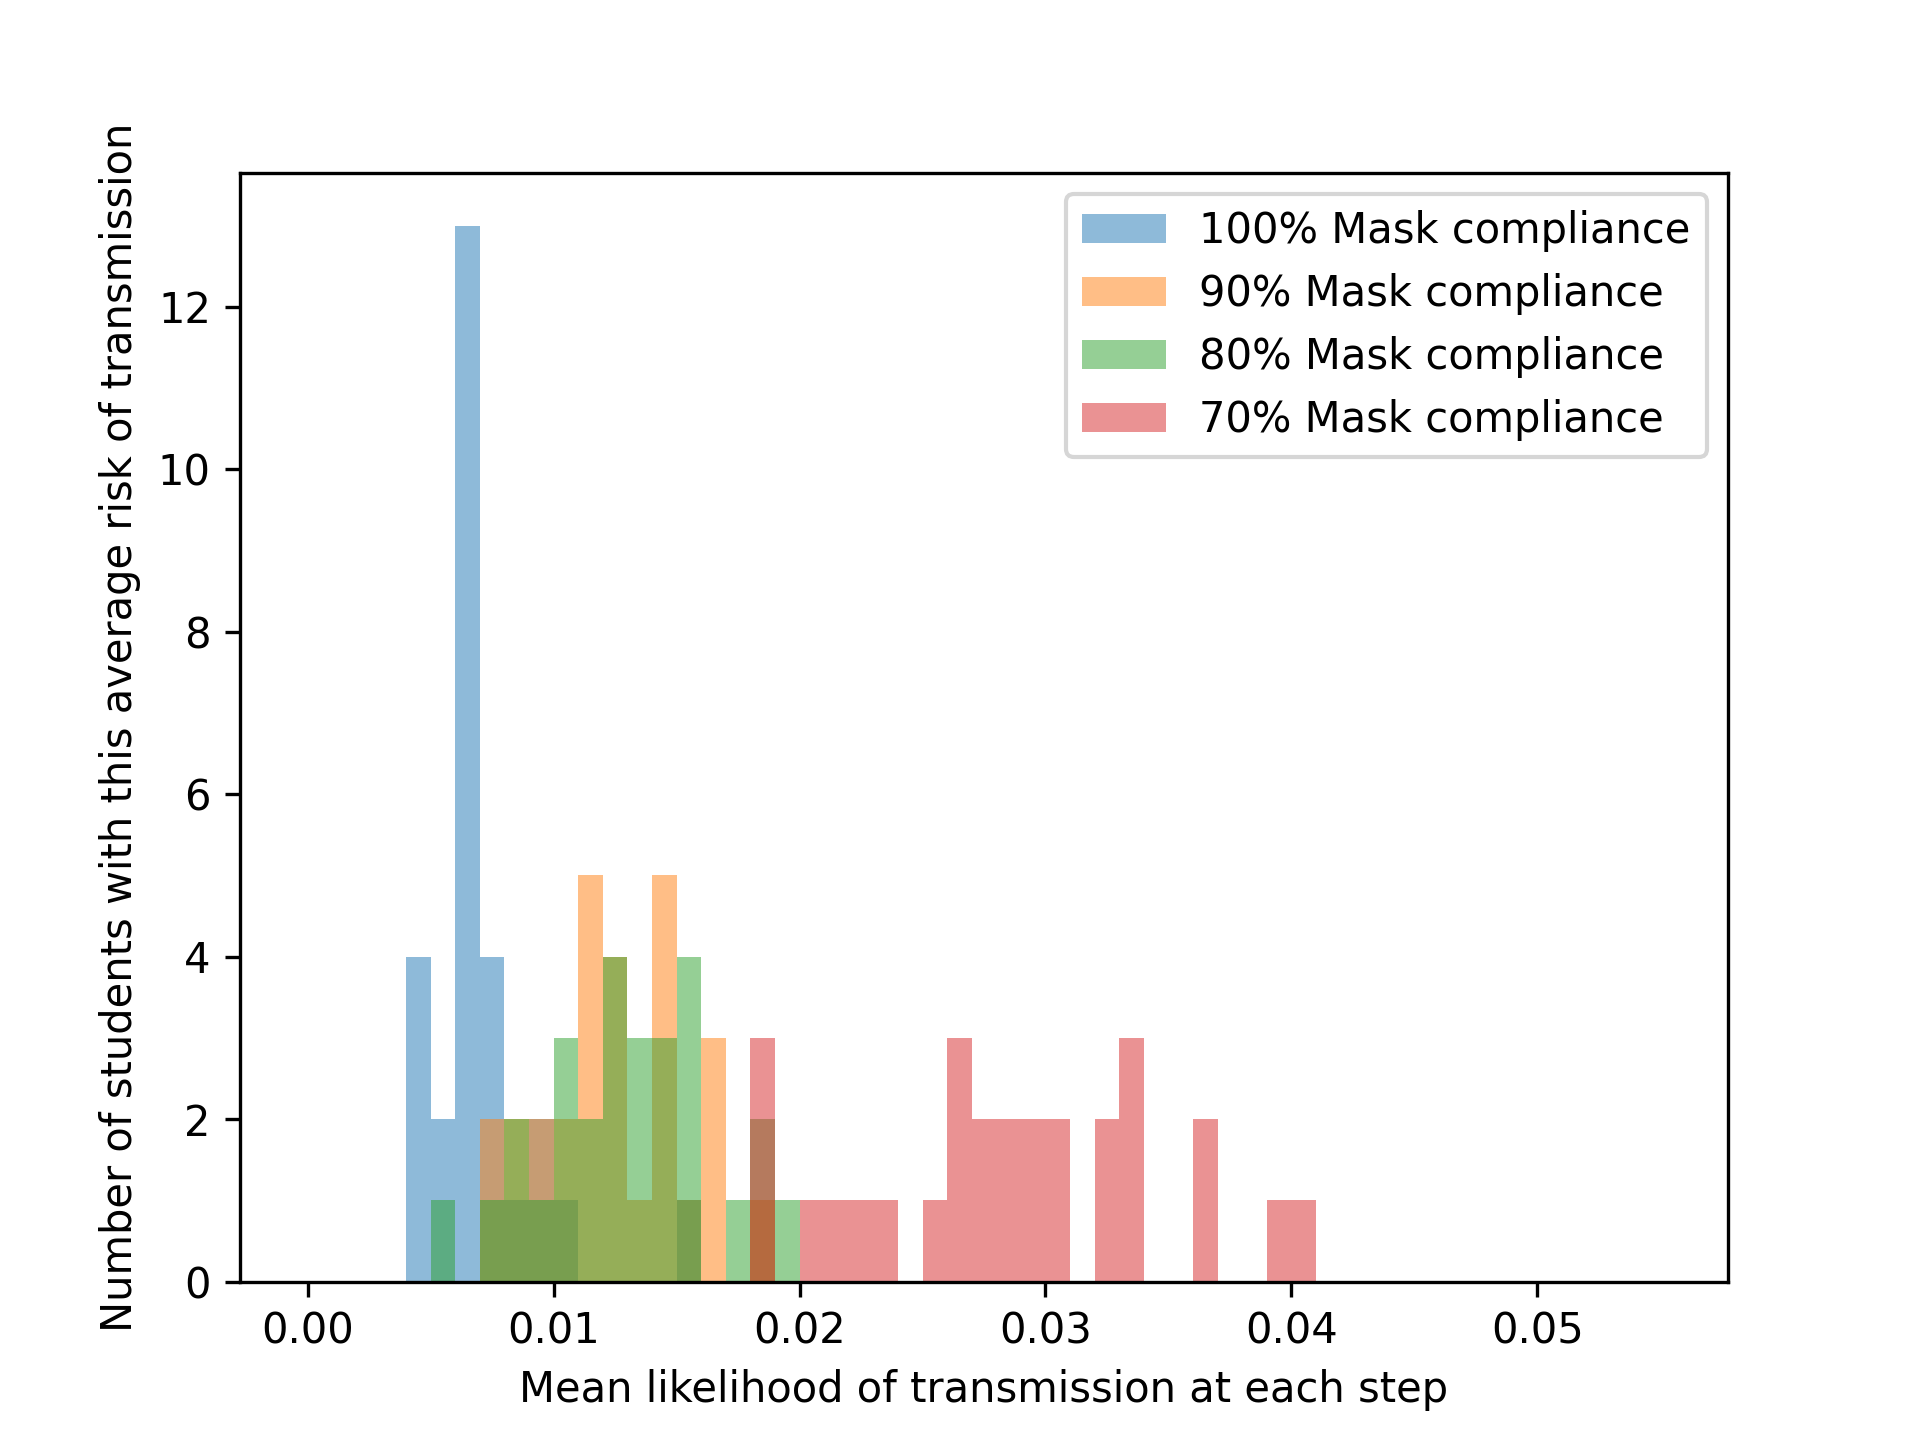
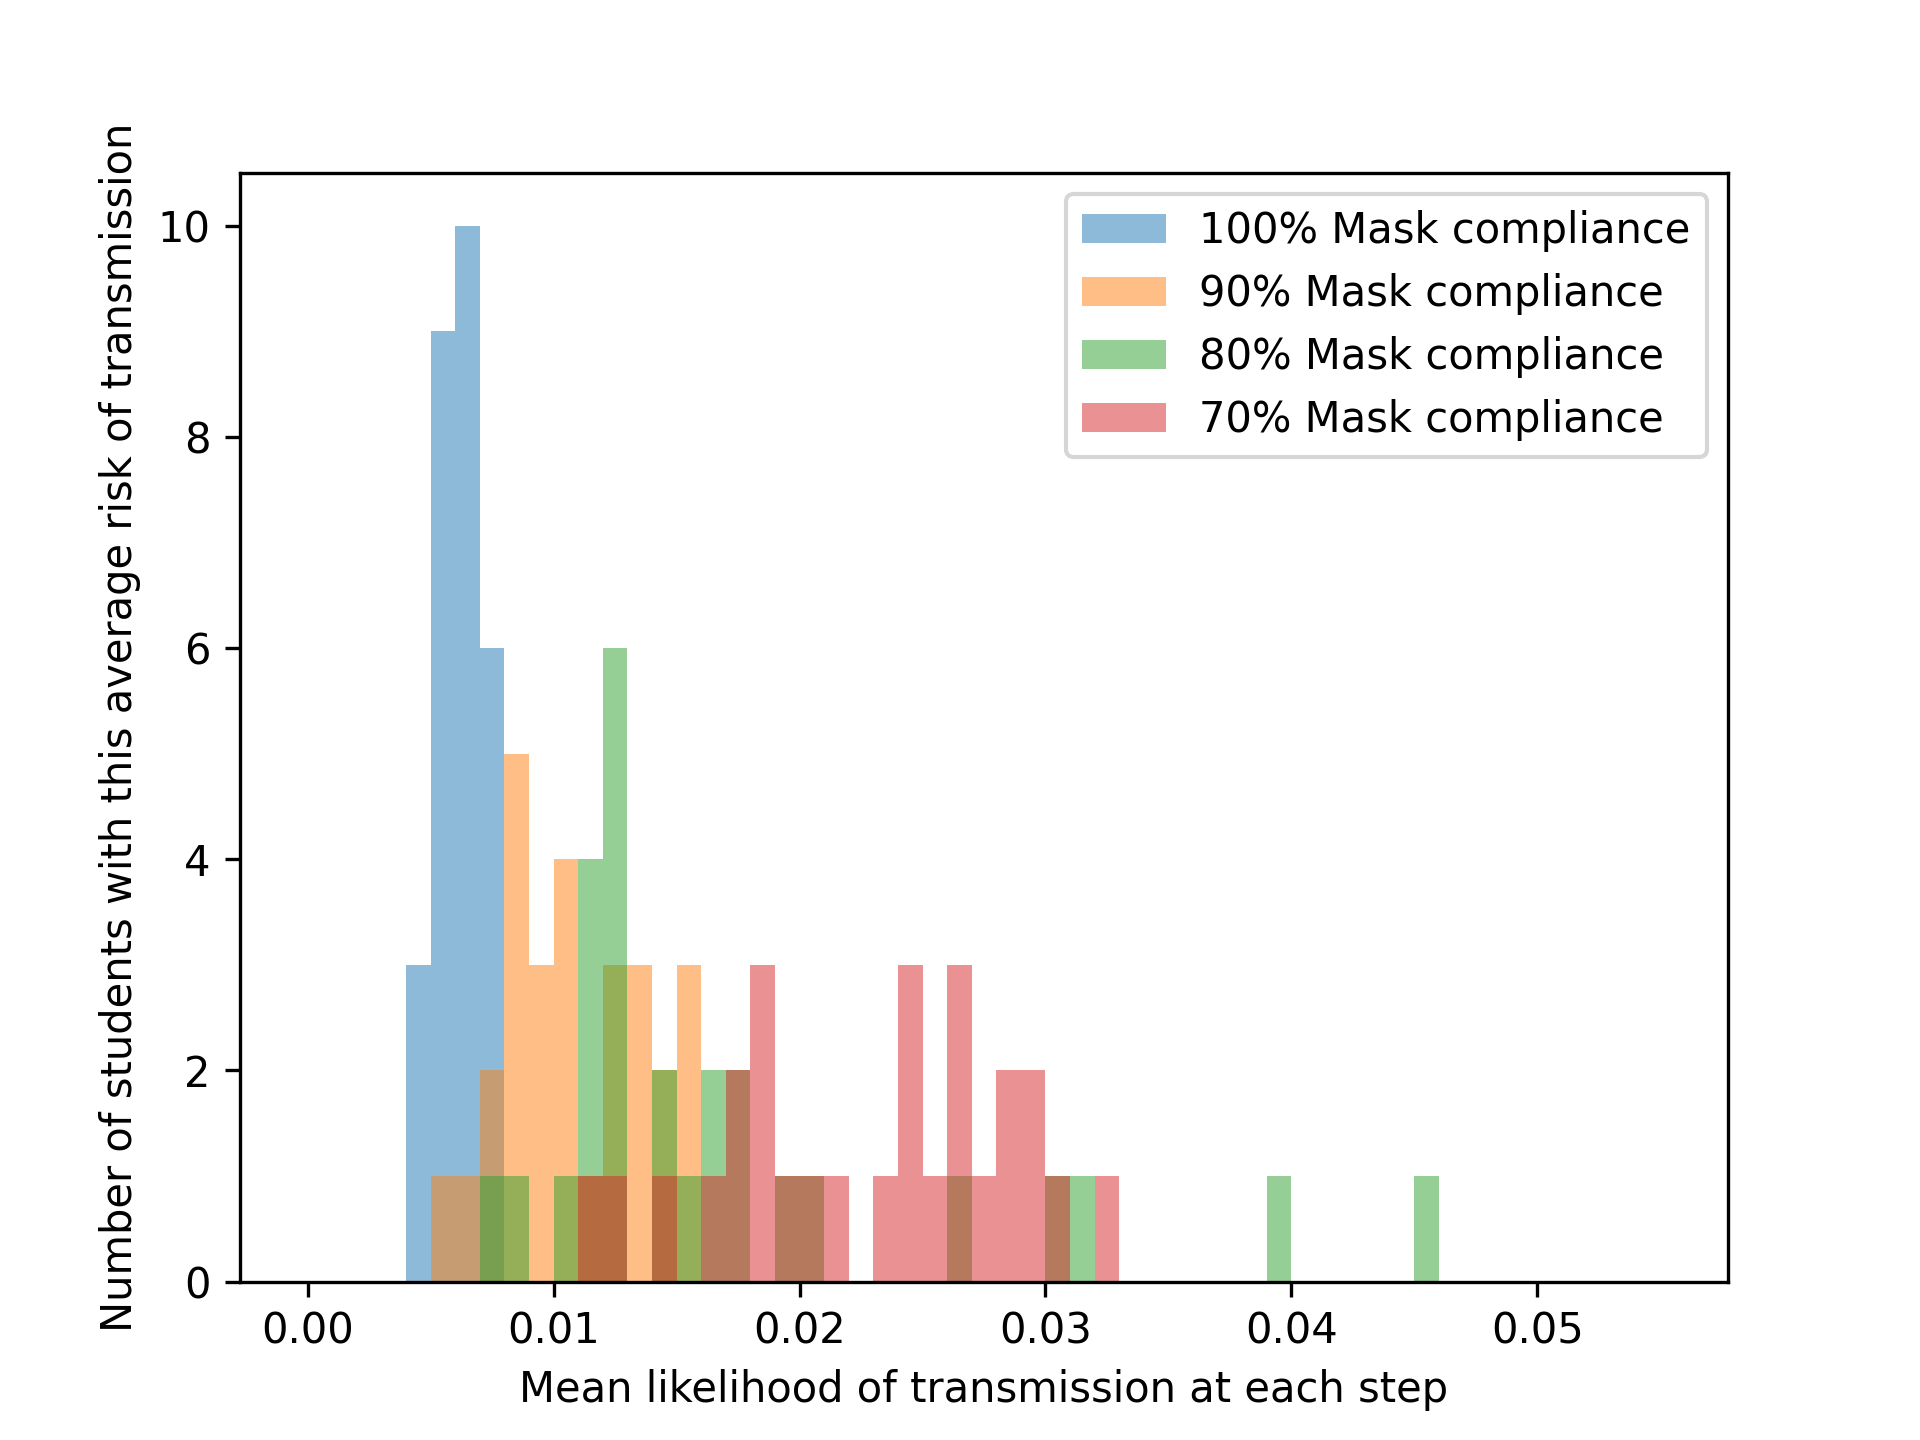
Airavata
TODO:
- Final Histogram
- Clean up Transmission plots

diff --git a/av.py b/av.py
@@ -237,20 +237,34 @@ class user_viz():
         fig2, ax2 = plt.subplots()
         window_types = [0, 6]
         win_out_df = pd.DataFrame(columns=window_types)
+        temp = 0.051
+        temp_step = 0.001
 
         # add dynamic x range ToDo
 
         for w in window_types:
             bus_out_array, conc_array, out_mat, chance_nonzero, avg_mat = bus_sim(int(self.students_var), self.mask_var, self.number_simulations, self.trip_length, self.seat_var, w) # WINDOW
-            pd.Series(bus_out_array[2]).plot.hist(bins=np.arange(0, 0.102, 0.002), alpha=.5, ax=ax2)
+            x_range = [.051, .102, .153, .204]
+            for i in range(len(x_range)):
+                if x_range[i] < max(bus_out_array[2].values()):
+                    pass
+                else:
+                    temp = x_range[i]
+                    temp_step = 0.001 * (i + 1)
 
-        plt.legend([0, 6])
+
+            # TODO: Check all values of KDE are positive
+
+            pd.Series(bus_out_array[2]).plot.kde(alpha=.5, ax=ax2)
+            pd.Series(bus_out_array[2]).plot.hist(alpha=.5, ax=ax2)
+
+        fig2.legend(['Windows Closed', 'Windows Open 6 Inches'])
         plt.xlabel('Mean likelihood of transmission at each step')
         plt.ylabel('Number of students with this average risk of transmission')
         seat_filepath_2 = output_filepath + '_windows.png'
         fig2.savefig(seat_filepath_2, dpi=300)
         plt.close(fig2)
-        print('windows complete')
+        print('Windows complete!')
 
         # Hist 3 Masks
 
@@ -268,13 +282,13 @@ class user_viz():
         seat_filepath_3 = output_filepath + '_masks.png'
         fig3.savefig(seat_filepath_3, dpi=300)
         plt.close(fig3)
-        print('masks complete')
+        print('Masks complete!')
 
 
         # 5 SCATTER and KDE
         print('Scatter...')
-        fig, axs = plt.subplots(2,2)
-        fig.tight_layout()
+        figscat, axs = plt.subplots(2,2)
+        figscat.tight_layout()
         # axs[0,0] = pd.Series(bus_out_array[0]).plot.kde(lw=2, color='blue')
         # axs[1,0] = pd.Series(bus_out_array[1]).plot.kde(lw=2, color='r')
         axs[0,0].hist(bus_out_array[0], bins=np.arange(0, .03, .001))
@@ -288,23 +302,23 @@ class user_viz():
 
         # print(bus_out_array[3]["0"])
         # axs[1,1] = fig.add_subplot(111)
-        axs[1,1].scatter(bus_out_array[5]["distance"], bus_out_array[5]["transmission rate"], s=2, color='green', label='far')
-        axs[1,1].scatter(bus_out_array[2]["distance"], bus_out_array[2]["transmission rate"], s=2, color='yellow', label='nearby')
-        axs[1,1].scatter(bus_out_array[3]["distance"], bus_out_array[3]["transmission rate"], s=2, color='red', label='neighbors')
-        axs[1,1].set_title('Distance from infected vs transmission rate')
-        axs[1,1].set_xlabel('Distance in Meters')
-        axs[1,1].set_ylabel('Transmission Rate')
-        plt.legend()
-        plt.savefig(output_filepath + '_transmission_rates.png', dpi=300)
-        plt.close(fig)
-        print('transmission rate complete!')
+        # axs[1,1].scatter(bus_out_array[5]["distance"], bus_out_array[5]["transmission rate"], s=2, color='green', label='far')
+        # axs[1,1].scatter(bus_out_array[2]["distance"], bus_out_array[2]["transmission rate"], s=2, color='yellow', label='nearby')
+        # axs[1,1].scatter(bus_out_array[3]["distance"], bus_out_array[3]["transmission rate"], s=2, color='red', label='neighbors')
+        # axs[1,1].set_title('Distance from infected vs transmission rate')
+        # axs[1,1].set_xlabel('Distance in Meters')
+        # axs[1,1].set_ylabel('Transmission Rate')
+        # plt.legend()
+        figscat.savefig(output_filepath + '_transmission_rates.png', dpi=300)
+        plt.close(figscat)
+        print('Transmission rate complete!')
 
-        print('KDE...')
-        figKDE = plt.subplots()
-        kde = pd.Series(bus_out_array).plot.kde(lw=2, c='r')
-        fp = output_filepath + '_KDE.png'
-        figKDE.savefig(fp, dpi=300)
-        plt.close(figKDE)
+        # print('KDE...')
+        # figKDE = plt.subplots()
+        # kde = pd.Series(bus_out_array).plot.kde(lw=2, c='r')
+        # fp = output_filepath + '_KDE.png'
+        # figKDE.savefig(fp, dpi=300)
+        # plt.close(figKDE)
         # THIS KDEPLOT IS TO LOOK COOL AND DO NOTHING
 
         # 6 T_RISK

diff --git a/src/bus.py b/src/bus.py
@@ -357,7 +357,7 @@ def bus_sim(n_students, mask, n_sims, trip_len, flow_seats_, window_): # do 1 tr
                     temp_average_array[student_id].append(transmission)
                     all_transmissions.append(transmission)
                     # print('oh')
-                    print(distance, 'd')
+                    # print(distance, 'd')
                     if distance < .5:
                         close_scatter_dist["distance"].append(distance)
                         close_scatter_dist["transmission rate"].append(transmission)
@@ -382,7 +382,7 @@ def bus_sim(n_students, mask, n_sims, trip_len, flow_seats_, window_): # do 1 tr
         averaged_all_runstep[id] = avg
         infection_over_run[id] = (1 - (1-avg)**n_steps)
 
-        print(close_scatter_dist)
+    # print(close_scatter_dist)
     # average risk of >= 1 infection across all model runs
     if len(run_average_array) == 0:
         print('Sim failed')

diff --git a/av_run.py b/av_run.py
@@ -96,7 +96,7 @@ def main_2():
     # 2.1-2.2 show average of all steps
     # heat 2.1 = mean of each coordinate full run
     # heat 2.2 = mean of each coordinate many runs
-    print('Simulation complete! Please check /results folder for output.')
+    print('Simulation complete! Please check /output folder for output.')
     return
 
 if __name__ == '__main__':
